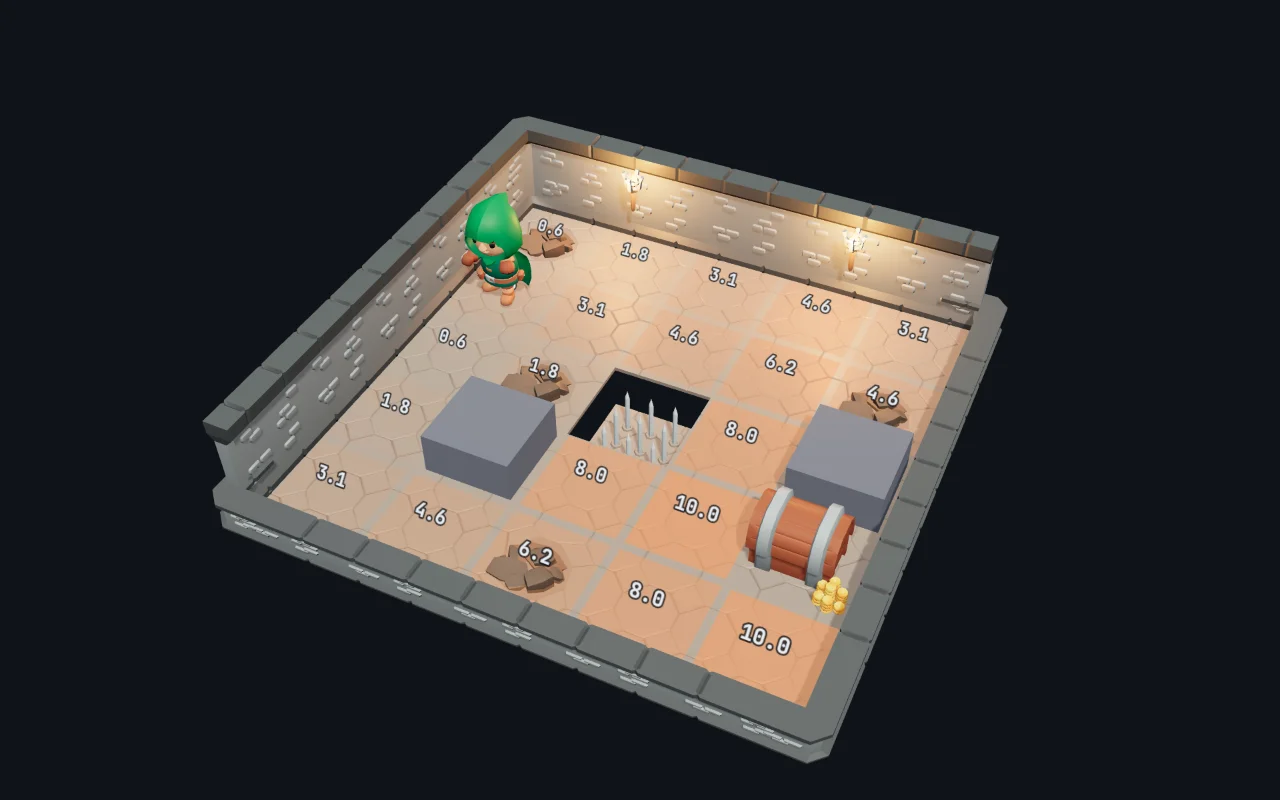
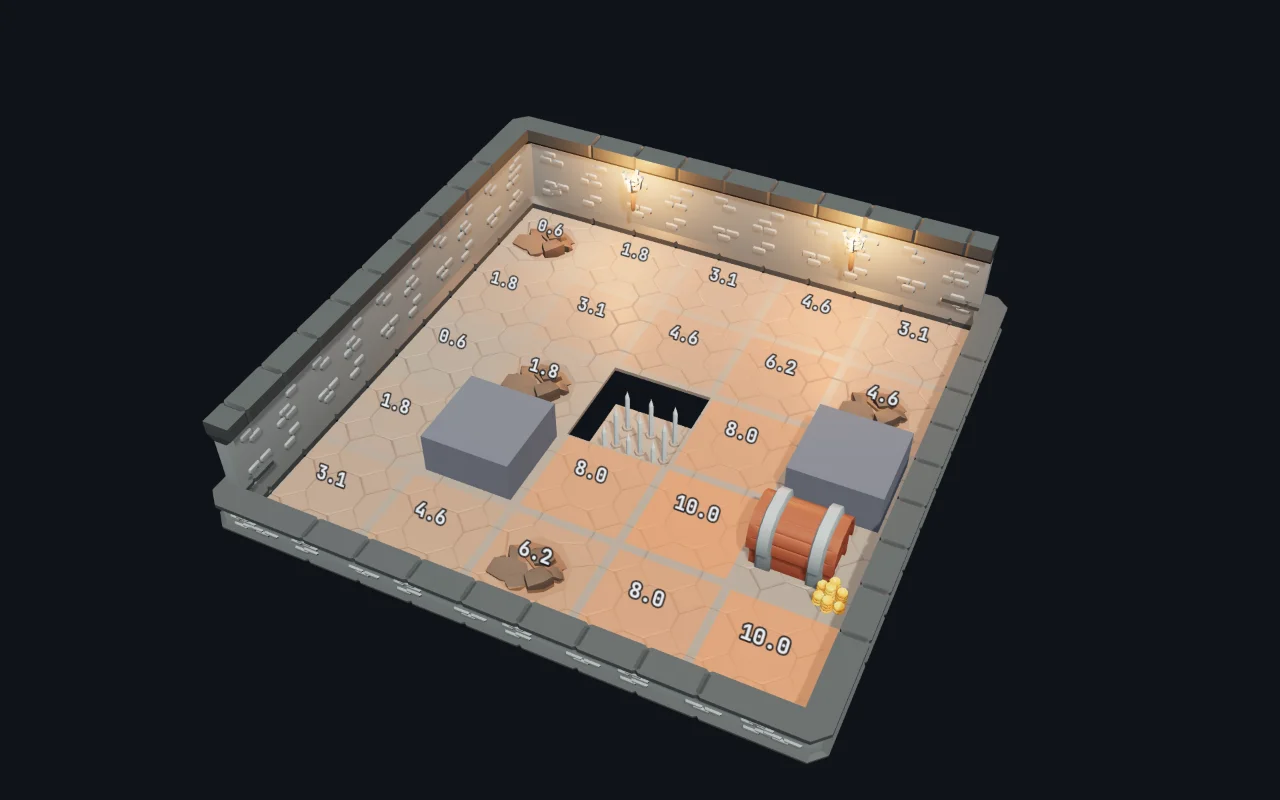
fix(room3d): Fig. 5 alt text and stills without the rogue (TD8)

Changed region(s): [[0.3438, 0.2188, 0.4375, 0.375]]

diff --git a/tests/treasure-room-shots.test.js b/tests/treasure-room-shots.test.js
@@ -21,16 +21,16 @@ describe('capture mode figure table', () => {
     }
   });
 
-  it('builds each figure\'s opts from the recorded story, ', () => {
+  it('builds each figure\'s opts from the recorded story', () => {
     const walk = [START, ...story.agent.trace.map(t => t.pos)];
     const R = story.returns, P = story.policy, M = story.mdp;
     expect(figureOpts(story, 1)).toEqual({ agent: START, ghost: walk });
     expect(figureOpts(story, 2)).toEqual({ agent: START, ghost: [R.shortCells, R.detourCells] });
     expect(figureOpts(story, 3)).toEqual({ agent: START, policy: P.bad, ghost: P.badRun.cells });
     expect(figureOpts(story, 4)).toEqual({ agent: START, policy: P.fixed, ghost: P.fixedRun.cells });
-    const room = makeGrid(story.room), snaps = story.value.snapshots, mid = snaps[1], last = snaps.at(-1);
-    expect(figureOpts(story, 5)).toEqual({ agent: START, values: mid.values, heat: heatOf(mid.values, room) });
-    expect(figureOpts(story, 6)).toEqual({ agent: START, values: last.values, heat: heatOf(last.values, room) });
+    const room = makeGrid(story.room), snaps = story.value.snapshots, mid = snaps.find(s => s.sweep === 2), last = snaps.at(-1);
+    expect(figureOpts(story, 5)).toEqual({ values: mid.values, heat: heatOf(mid.values, room) });
+    expect(figureOpts(story, 6)).toEqual({ values: last.values, heat: heatOf(last.values, room) });
     expect(figureOpts(story, 7)).toEqual({ agent: START, ghost: M.dry.cells, ice: false });
     expect(figureOpts(story, 8)).toEqual({ agent: START, ghost: M.icy.cells, ice: true });
   });

diff --git a/games/treasure-room/how-it-works/index.html b/games/treasure-room/how-it-works/index.html
@@ -101,7 +101,7 @@
     <p>The <em>value</em> of a tile is the return the robot can expect if it stands there and plays well. Start with zero everywhere. One sweep lets every tile look at its neighbours and take the best one. The tile next to the treasure learns it is worth something, then the tile beside that, and the news spreads outward one step per sweep.</p>
     <figure class="fig wide" id="fig5">
       <div class="duo">
-        <div><p class="duo-label">After 2 sweeps</p><img class="grid" src="fig-5.webp" width="1280" height="800" alt="The room after two sweeps: only the tiles beside the treasure are warm and carry a value; every other tile still reads the same low number" loading="lazy"></div>
+        <div><p class="duo-label">After 2 sweeps</p><img class="grid" src="fig-5.webp" width="1280" height="800" alt="After two sweeps only the tiles within two steps of the treasure are warm (10 next to it, 8 one further); every other tile still reads −1.9" loading="lazy"></div>
         <div><p class="duo-label">After <span id="settleSweeps"></span> sweeps</p><img class="grid" src="fig-6.webp" width="1280" height="800" alt="The room once the values have settled: every tile carries a value, warmer the closer it is to the treasure" loading="lazy"></div>
       </div>
       <figcaption><b>Fig. 5</b> The value of each tile after 2 sweeps and once the sweeps have settled, at discount 0.9. A warmer tile is worth more. By the last picture nothing moves by more than 0.01 and the start tile settles at <span id="startValue"></span>.</figcaption>

diff --git a/games/treasure-room/shots.js b/games/treasure-room/shots.js
@@ -22,13 +22,13 @@ export const FIGURES = [
 // The scene.draw opts for image n.
 export function figureOpts(story, n) {
   const agent = story.triples[0].state, P = story.policy, M = story.mdp, room = makeGrid(story.room);
-  const sweep = sn => ({ agent, values: sn.values, heat: heatOf(sn.values, room) });
+  const sweep = sn => ({ values: sn.values, heat: heatOf(sn.values, room) }); // no agent: the rogue would hide the start tile's number
   switch (n) {
     case 1: return { agent, ghost: [agent, ...story.agent.trace.map(t => t.pos)] };
     case 2: return { agent, ghost: [story.returns.shortCells, story.returns.detourCells] };
     case 3: return { agent, policy: P.bad, ghost: P.badRun.cells };
     case 4: return { agent, policy: P.fixed, ghost: P.fixedRun.cells };
-    case 5: return sweep(story.value.snapshots[1]);
+    case 5: return sweep(story.value.snapshots.find(s => s.sweep === 2));
     case 6: return sweep(story.value.snapshots.at(-1));
     case 7: return { agent, ghost: M.dry.cells, ice: false };
     case 8: return { agent, ghost: M.icy.cells, ice: true };

diff --git a/games/treasure-room/how-it-works/story.css b/games/treasure-room/how-it-works/story.css
@@ -1,7 +1,6 @@
 /* Treasure Room write-up: the shared write-up styles (assets/story.css) plus this page's grids. */
 
-.fig .grid { display: block; width: 100%; max-width: 360px; aspect-ratio: 1; margin: 0 auto; }
-.fig img.grid { max-width: none; height: auto; aspect-ratio: 1280 / 800; border: 1px solid var(--rule); }
+.fig img.grid { display: block; width: 100%; height: auto; aspect-ratio: 1280 / 800; margin: 0 auto; border: 1px solid var(--rule); }
 
 .duo { display: grid; grid-template-columns: repeat(2, minmax(0, 1fr)); gap: 24px; align-items: start; }
 .duo-label { margin: 0 0 8px !important; font-family: var(--sans); font-weight: 600; font-size: 16px !important; letter-spacing: normal; }
